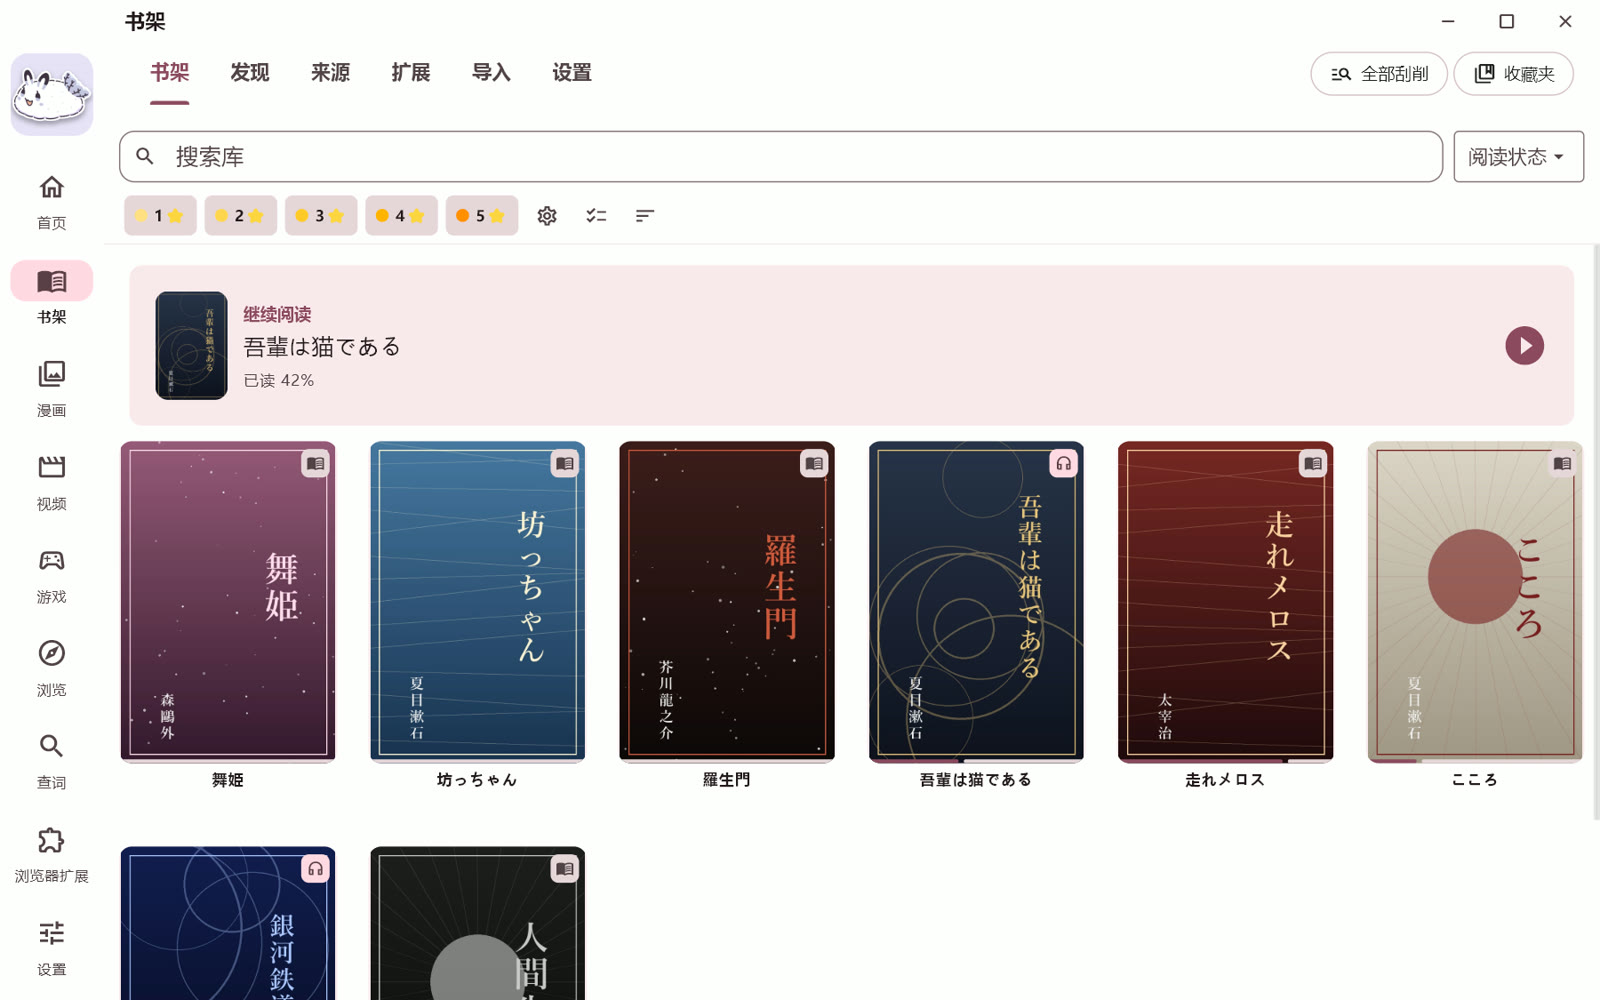
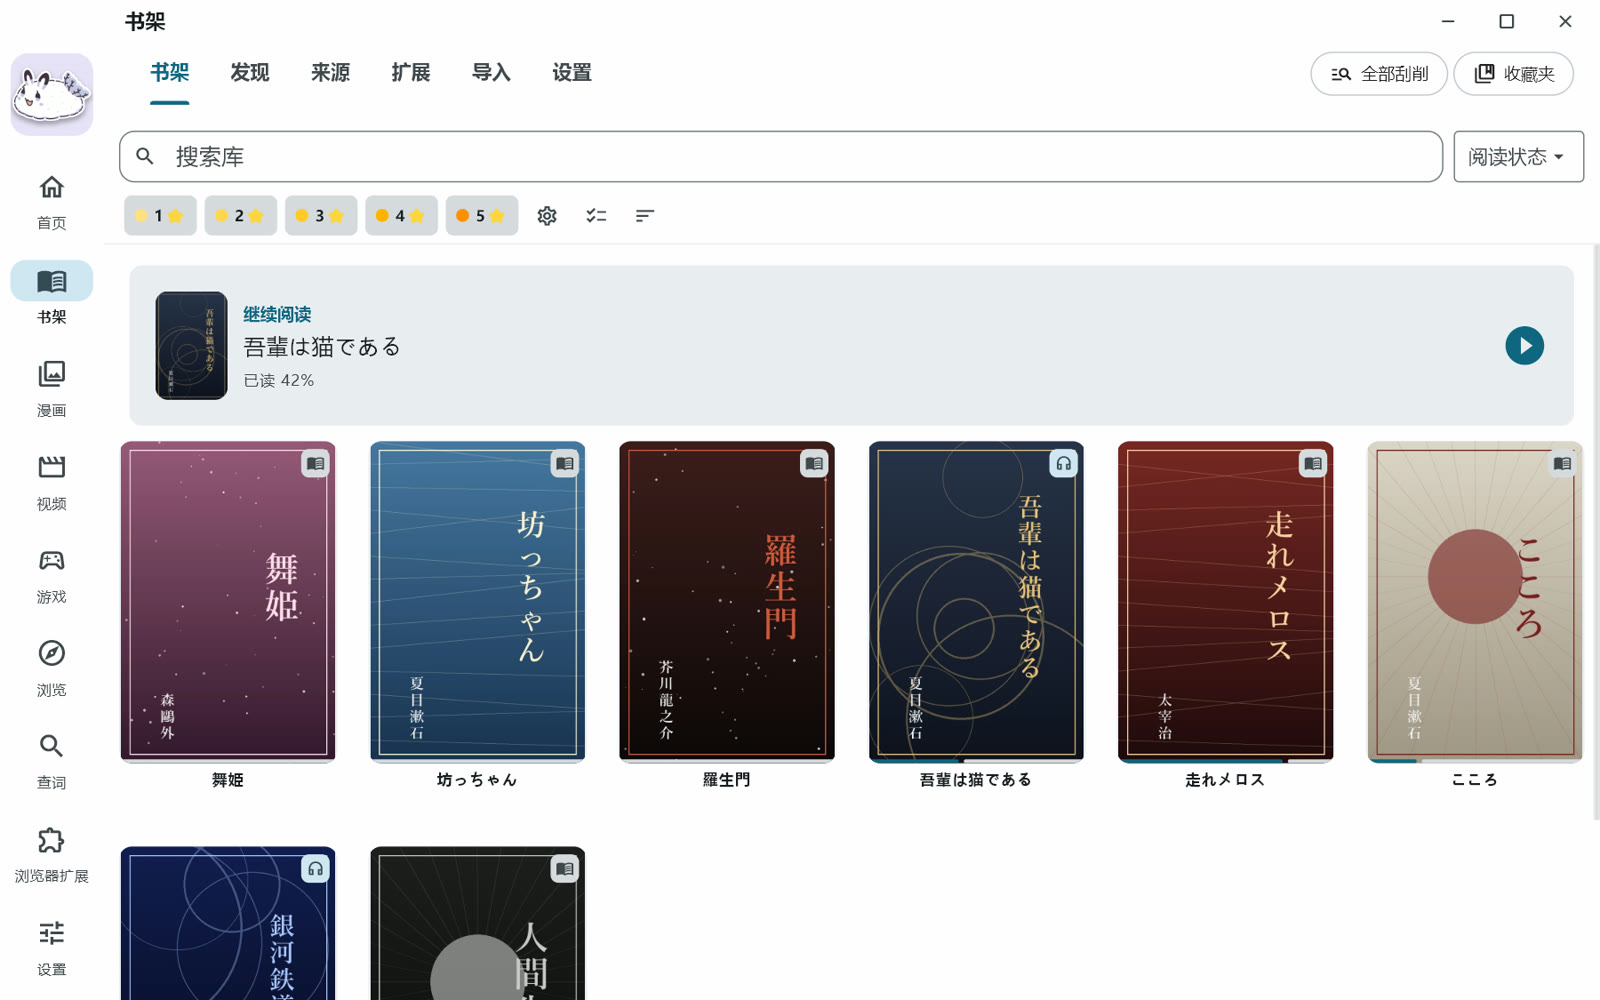
feat(home): hero Star/sponsor buttons, default light-theme screenshots
- Add Star (with live count) and Sponsor pills next to the download button
- Move the GitHub link below the hero buttons
- Drop the App overview subtitle
- Re-shoot overview screenshots with the default light-theme preset instead of the OS accent

Claude-Session: https://claude.ai/code/session_01HCzamJhfBVyzyCrkruYAsv

diff --git a/public/index.html b/public/index.html
@@ -64,6 +64,25 @@
   .hero .copy { max-width: 560px; margin: 26px 0 0; }
   .hero .plats { margin-top: 26px; font-size: 12px; letter-spacing: 0.14em; color: var(--ink-2); }
   .hero .btns { display: flex; justify-content: flex-start; flex-wrap: wrap; gap: 14px; margin-top: 34px; }
+  /* hero 次级 CTA：Star / 赞助放在下载旁边，首屏就能看到；Star 数只有真拿到才显示 */
+  .hero .btns { align-items: center; gap: 10px; }
+  .hero-pill {
+    display: inline-flex; align-items: center; gap: 7px; min-height: 44px; padding: 0 18px;
+    border-radius: 980px; font-size: 16px; line-height: 1; text-decoration: none; color: var(--ink);
+    background: var(--card); border: 1px solid color-mix(in srgb, var(--hairline) 90%, transparent);
+    transition: background 0.2s ease, border-color 0.2s ease;
+  }
+  .hero-pill:hover { background: var(--alt); }
+  .hero-pill svg { width: 17px; height: 17px; flex: none; display: block; }
+  .hero-star svg { fill: #e3a008; }
+  .hero-sponsor svg { fill: #bf3989; }
+  .hero-sponsor:hover { border-color: color-mix(in srgb, #bf3989 45%, var(--hairline)); }
+  .hero-pill-n {
+    display: none; margin-inline-start: 3px; padding: 3px 8px; border-radius: 980px;
+    font-size: 13px; font-weight: 600; font-variant-numeric: tabular-nums; background: var(--alt); color: var(--ink-2);
+  }
+  .hero-pill-n.on { display: inline-block; }
+  .hero-gh { margin-top: 14px; font-size: 15px; }
   .hero-panel {
     background: var(--card); border-radius: 26px; padding: clamp(22px, 2.6vw, 34px);
     box-shadow: var(--card-shadow);
@@ -691,7 +710,8 @@
       <p class="eyebrow"><a href="https://www.gnu.org/licenses/gpl-3.0.html" data-i18n="home.hero.eyebrow">免费开源 · GPLv3</a></p>
       <h1 class="h-hero" data-i18n="home.hero.title">搜索、下载、播放<br>阅读、查词、制卡<br>都在 Fushi</h1>
       <p class="copy copy-2" data-i18n="home.hero.copy">动漫、漫画、小说、有声书、Galgame。<br>搜到、下好、自动追更——一个 app 全搞定。</p>
-      <div class="btns"><a class="btn" href="/download" data-i18n="home.cta.download">立即下载</a><a class="more" style="align-self:center;padding:12px 6px" href="https://github.com/hajisensai/Fushi" data-i18n="home.closing.github">在 GitHub 上查看</a></div>
+      <div class="btns"><a class="btn" href="/download" data-i18n="home.cta.download">立即下载</a><a class="hero-pill hero-star" href="https://github.com/hajisensai/Fushi" target="_blank" rel="noopener noreferrer"><svg viewBox="0 0 24 24" xmlns="http://www.w3.org/2000/svg" aria-hidden="true"><path d="M12 2.6l2.95 5.98 6.6.96-4.78 4.66 1.13 6.57L12 17.67l-5.9 3.1 1.13-6.57L2.45 9.54l6.6-.96z"/></svg><span data-i18n="home.hero.star">Star</span><span class="hero-pill-n" data-fushi-stars-host><span data-fushi-stars="compact"></span></span></a><a class="hero-pill hero-sponsor" href="https://github.com/sponsors/hajisensai" target="_blank" rel="noopener noreferrer"><svg viewBox="0 0 24 24" xmlns="http://www.w3.org/2000/svg" aria-hidden="true"><path d="M17.5 2.9c-2.2 0-4.1 1.2-5.5 3-1.4-1.8-3.3-3-5.5-3C2.9 2.9.5 5.8.5 9.1c0 5.4 5.1 9.1 11.5 13 6.4-3.9 11.5-7.6 11.5-13 0-3.3-2.4-6.2-6-6.2z"/></svg><span data-i18n="home.hero.sponsor">赞助</span></a></div>
+      <p class="hero-gh"><a class="more" href="https://github.com/hajisensai/Fushi" data-i18n="home.closing.github">在 GitHub 上查看</a></p>
       <p class="plats">Windows · macOS · Android · iOS</p>
     </div>
     <aside class="hero-panel" id="acgn">
@@ -711,7 +731,6 @@
   <div class="head rev">
     <p class="eyebrow" data-i18n="home.overview.eyebrow">App 全貌</p>
     <h2 class="h-section" data-i18n="home.overview.title">一个 App，装下全部</h2>
-    <p class="copy" data-i18n="home.overview.copy">打开 Fushi，左侧导航栏就是全部入口：书架、漫画、视频、游戏、在线来源和词典都在同一个窗口里。下面是 App 的真实界面。</p>
   </div>
   <div class="stage rev ov">
     <div class="ov-nav" role="tablist" aria-label="Fushi 模块" data-i18n-attr="aria-label=home.overview.nav_label">
